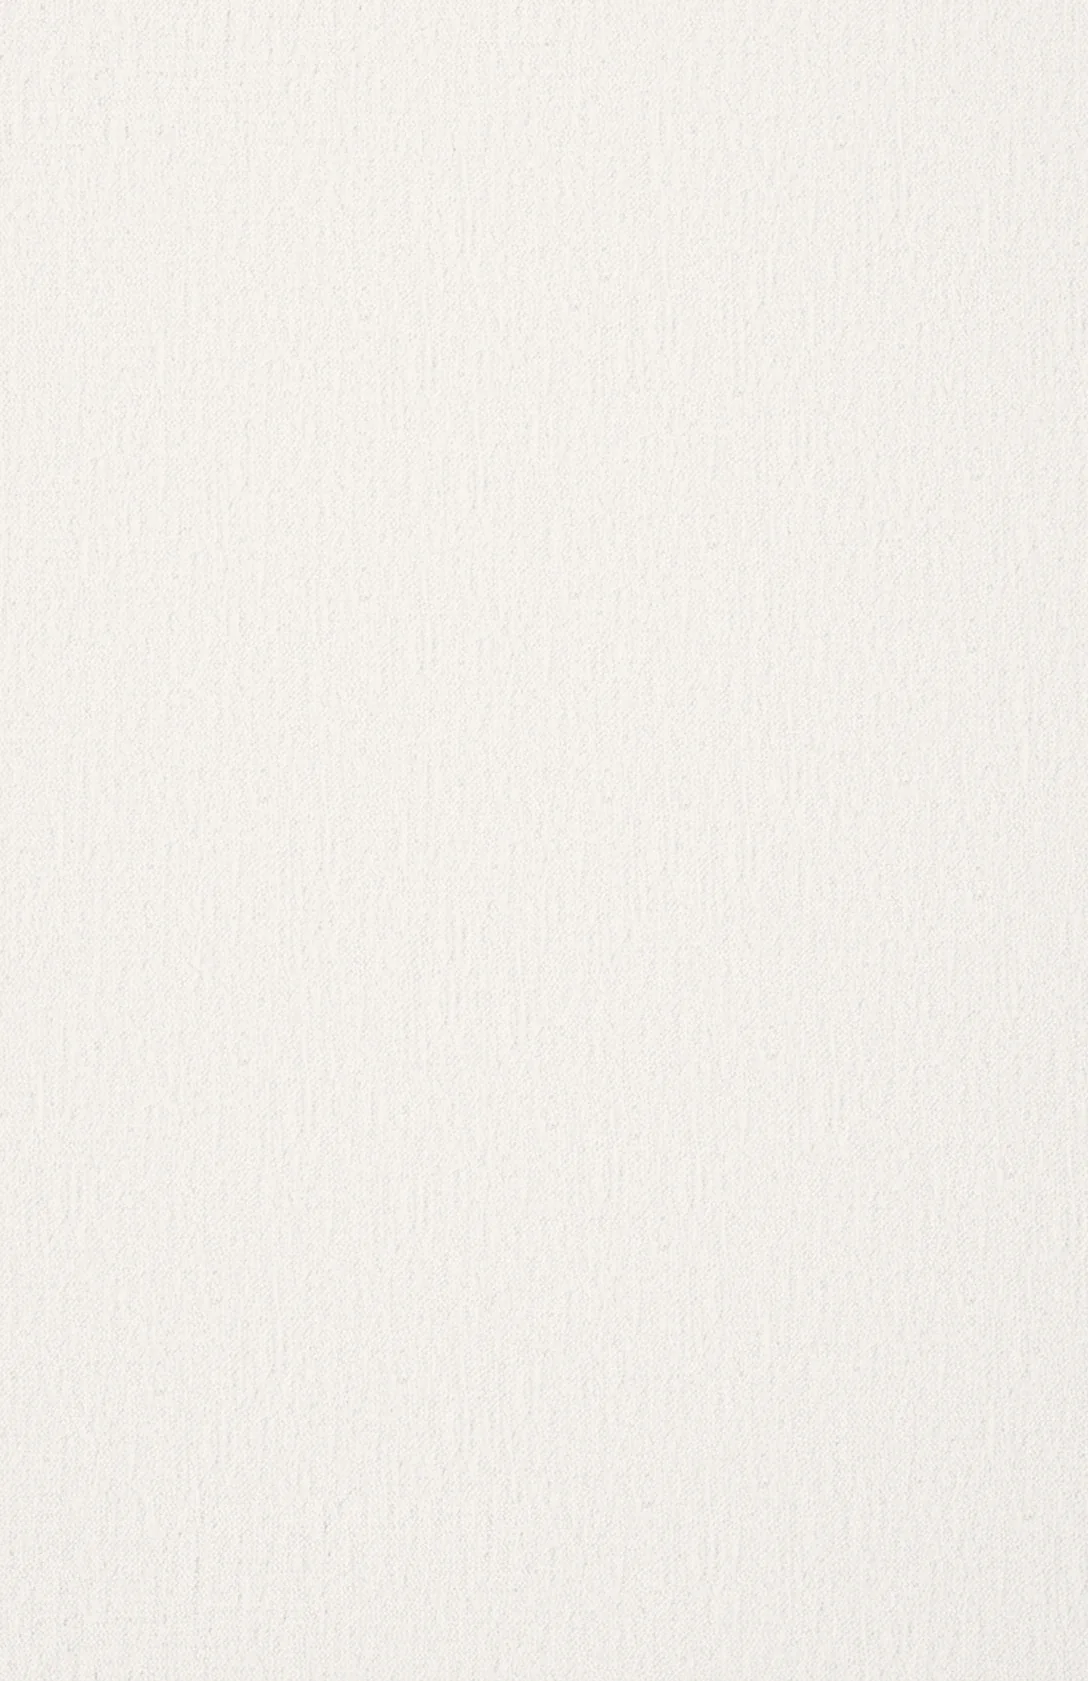
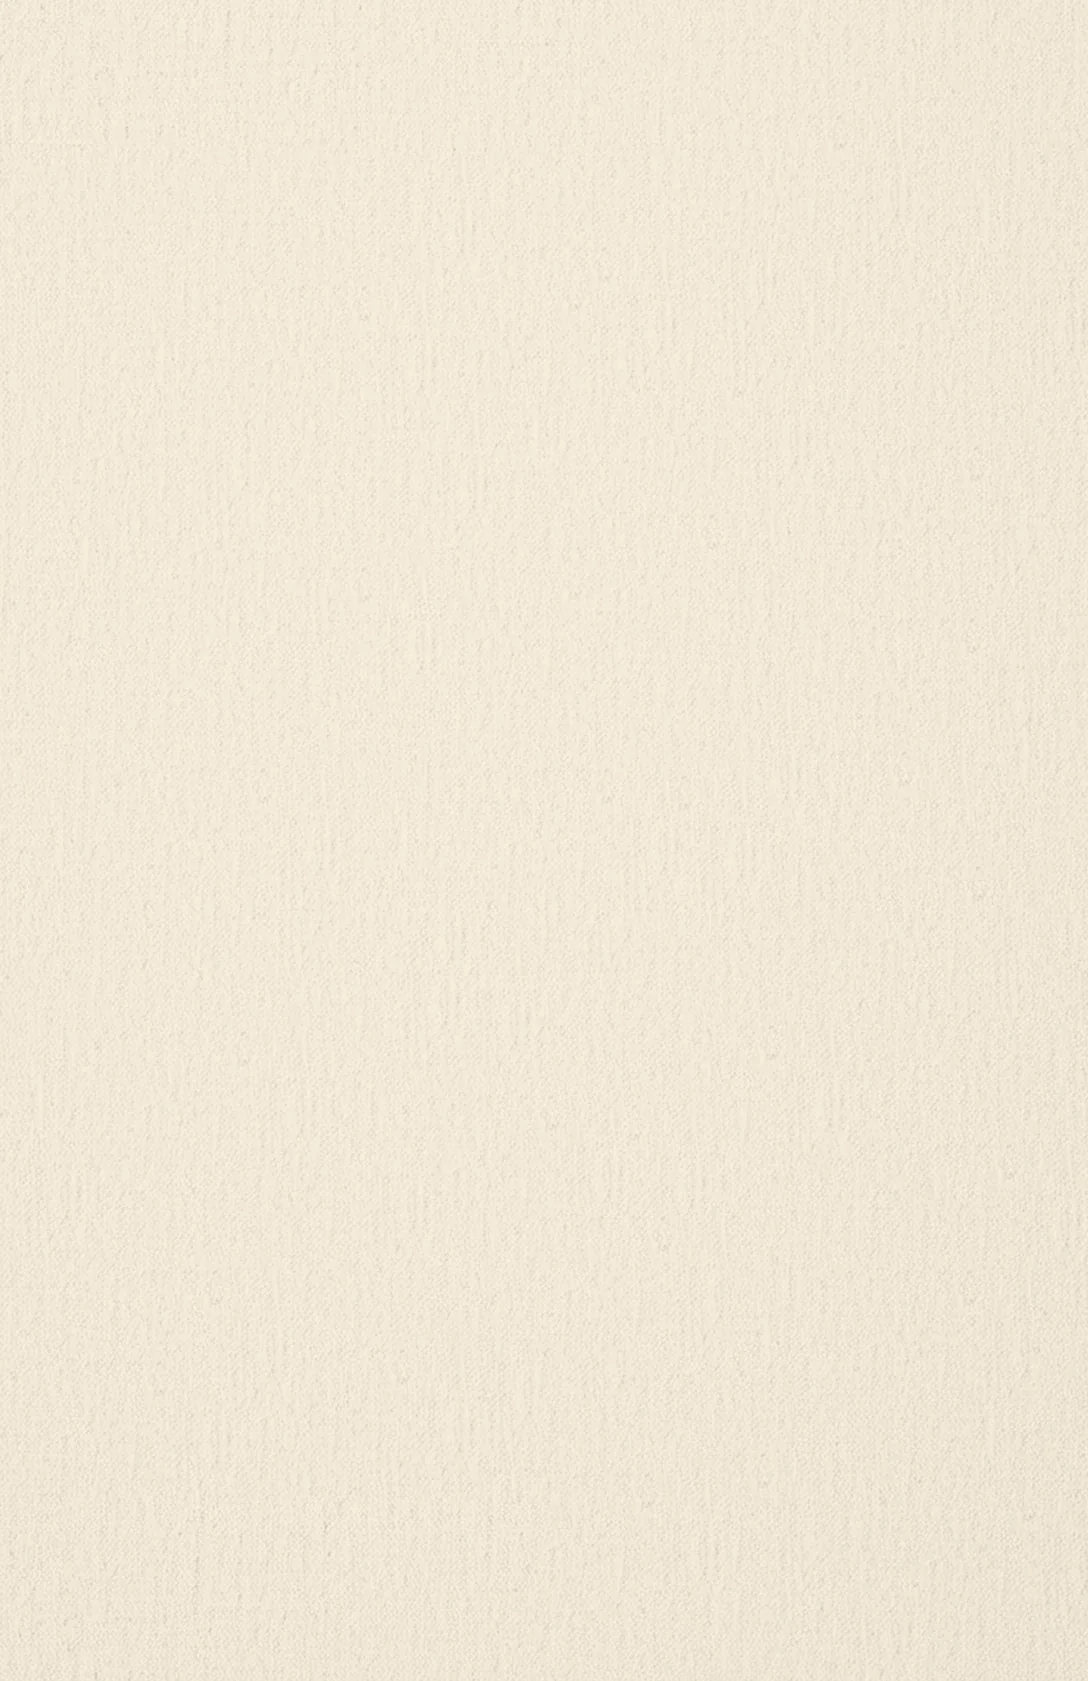
ucZLlRU بطلب المالك: إبراهيم وعبير — السبت 5/12/2026 من 7 لـ 11 مساءً، Tia Vie (Askar Group) أكتوبر بالخريطة على المكان وزرار الاتجاهات على لينكه، الدريس كود اتشال وكلام الكارت نزل في نص الورقة، أغنية "ألف الصلاة وألف السلام" لحسين الجسمي من المكتبة، الألبوم بصورهم التلاتة، الخلفية مايلة للدهبي سنة،
Claude-Session: https://claude.ai/code/session_018uZ4NkpTKXWRE8ncg3V81k

diff --git a/custom-invitations/ucZLlRU.js b/custom-invitations/ucZLlRU.js
@@ -2,7 +2,8 @@
 // نفس القالب ونفس البيانات (العميل يقدر يكمّل تعديل كلامه وصوره من المحرر عادي) — اللي اتغيّر الألوان والصور بس:
 // - صور القالب اتلوّنت بكسل بكسل (scratch uc/recolor.py): الظرف ورق برجندي بنفس النقشة البارزة وورق الشجر دهبي،
 //   الختم دهب، الكروت برجندي بنفس النقشة البارزة، ظرف الآية دانتيل برجندي، القلوب دهب، الورد زي ما هو.
-//   بطلب المالك: الورقة اللي ورا كل الأجزاء (الخلفية) ورقة بيضا، وورقة الآية اللي طالعة من الظرف بيضا.
+//   بطلب المالك: الورقة اللي ورا كل الأجزاء (الخلفية) فاتحة مايلة للدهبي سنة (شامبين)، وورقة الآية اللي طالعة
+//   من الظرف بيضا.
 //   الصور الجديدة في client/public/custom/ucZLlRU/ بنفس أسامي صور القالب، والـ transform بيبدّل المسار بس.
 //   أي صورة العميل يرفعها من المحرر بتكسب (بتتحط فوق من بيانات الدعوة).
 // - الكلام اللي على الورقة البيضا برجندي، واللي على الكروت البرجندي عاجي ودهبي (CSS تحت).
@@ -20,16 +21,30 @@ const FILES = [
   'scratch-coat-day.webp', 'scratch-coat-month.webp', 'scratch-coat-year.webp',
   'lace-envelope-back.webp', 'lace-envelope-front.webp',
   'heart-large.webp', 'heart-small.webp', 'closing-heart.png',
+  // (2026-11-21) الوردتين اللي فوق على الشمال اتقصّوا من جديد (القص القديم كان سايب حتت من خلفية الصورة الرمادي بين
+  // الورق وتحت الوردة) — scratch uc/recut_roses.py + roses_clean2.py
+  'hero-roses.webp',
 ];
 
 const CSS = `
 :root{--uc-wine:#5b1526;--uc-rose:#8f4d5c;--uc-card:#6c1a2c;--uc-ink:#f6ead1;--uc-soft:#dcc395;--uc-gold:#dcbb80;
-  --uc-gold-l:#ecd3a0;--uc-gold-d:#a47c40}
+  --uc-gold-l:#ecd3a0;--uc-gold-d:#a47c40;--uc-paper:#f4ecdb;--uc-paper-rgb:244,236,219}
+/* الورقة اللي ورا كل الأجزاء: مش أبيض صريح — شامبين فاتح مايل للدهبي سنة (طلب المالك)، نفس لون الكتان في الصور */
+html,body{background:var(--uc-paper)!important}
+#rec2442650993 .t396__artboard,#rec2442651013 .t396__artboard,#rec2442651163 .t396__artboard{background-color:var(--uc-paper)!important}
+#rec2442651013{background-color:var(--uc-paper)!important}
+#cl-sections,#venue,#album,#rsvp-wrap,.cl-note-wrap{background:var(--uc-paper)!important}
+html body .hv{background:var(--uc-paper)}
+.hv .hv-wash{background:linear-gradient(to bottom,rgba(var(--uc-paper-rgb),0) 0%,rgba(var(--uc-paper-rgb),.26) 42%,rgba(var(--uc-paper-rgb),.74) 76%,var(--uc-paper) 100%)!important}
+.cd-linen::after{background:linear-gradient(to bottom,var(--uc-paper) 0,rgba(var(--uc-paper-rgb),.72) 46px,rgba(var(--uc-paper-rgb),.22) 104px,rgba(var(--uc-paper-rgb),0) 150px,rgba(var(--uc-paper-rgb),0) 548px,rgba(var(--uc-paper-rgb),.3) 600px,rgba(var(--uc-paper-rgb),.78) 646px,var(--uc-paper) 680px)!important}
 /* الغلاف: "Click to open" على الظرف البرجندي */
 #rec2442650973 .tn-elem[data-elem-id="1777183175514000001"] .tn-atom{color:var(--uc-gold-l)!important;text-shadow:0 1px 6px rgba(20,0,6,.7)}
 /* أول شاشة: الكلام اللي على الورقة البيضا برجندي، واللي على الكارت البرجندي عاجي ودهبي
    (html body: القالب بيعرّف المتغيّرات دي بعدنا في الصفحة) */
-html body .hv{--hv-ink:var(--uc-wine)}
+html body .hv{--hv-ink:var(--uc-wine);--hv-paper:var(--uc-paper)}
+/* (2026-11-21) الدريس كود اتشال من الكارت → الكلام نزل 22px عشان يبقى في نص الورقة بالظبط (نص الكلام 413.9 → 435.5 = نص
+   الكارت 190–681). fitHeroCard بتاعة القالب لو احتاجت ترفع الكارت بتكتب top inline وتكسب */
+#hv-hero .hv-card{top:272px}
 .hv .hv-card{color:var(--uc-ink)!important}
 .hv .hv-names>span{color:var(--uc-gold-l)}
 .hv .hv-names .hv-amp{color:var(--uc-gold)!important}
@@ -44,25 +59,25 @@ html body .hv{--hv-ink:var(--uc-wine)}
 #rec2442651013 .vl>.vbr{color:#b08a52!important}
 #rec2442651013 .tn-elem[data-elem-id="1705235414678"] .tn-atom{color:#8a6640!important}
 /* العدّاد: كل كلامه جوه الكارت البرجندي */
-html body .cd{--cd-ink:var(--uc-ink);--cd-soft:var(--uc-soft);--cd-gold:var(--uc-gold);--cd-rule:rgba(220,187,128,.42)}
+html body .cd{--cd-ink:var(--uc-ink);--cd-soft:var(--uc-soft);--cd-gold:var(--uc-gold);--cd-rule:rgba(220,187,128,.42);--cd-paper:var(--uc-paper)}
 .cd-title{color:var(--uc-gold-l)}
 #cd-countdown .cd-cal{border-color:rgba(220,187,128,.7)!important;background:rgba(255,240,210,.06)!important;color:var(--uc-ink)!important}
 #cd-countdown .cd-cal:hover,#cd-countdown .cd-cal:focus-visible{background:var(--uc-gold)!important;color:var(--uc-wine)!important;border-color:var(--uc-gold)!important}
 /* المكان: الكلام على الورقة البيضا برجندي، والإطار برجندي بخط دهب */
-html body .vn{--vn-ink:var(--uc-wine);--vn-soft:var(--uc-rose);--vn-gold:var(--uc-gold-d)}
+html body .vn{--vn-ink:var(--uc-wine);--vn-soft:var(--uc-rose);--vn-gold:var(--uc-gold-d);--vn-paper:var(--uc-paper)}
 .vn-frame{background:var(--uc-card)!important}
 .vn-frame::after{border-color:rgba(220,187,128,.6)!important}
 .vn-map{background:#5a1525!important}
 #vn-venue .vn-dir{border-color:rgba(91,21,38,.55)!important}
 #vn-venue .vn-dir:hover,#vn-venue .vn-dir:focus-visible{background:var(--uc-wine)!important;color:var(--uc-ink)!important}
 /* الألبوم */
-html body .al{--al-ink:var(--uc-wine);--al-soft:var(--uc-rose);--al-gold:var(--uc-gold-d)}
+html body .al{--al-ink:var(--uc-wine);--al-soft:var(--uc-rose);--al-gold:var(--uc-gold-d);--al-paper:var(--uc-paper);--cd-paper:var(--uc-paper)}
 .al-card{background:var(--uc-card)!important}
 .al-card::after{border-color:rgba(220,187,128,.55)!important}
 #al-album .al-btn{border-color:rgba(91,21,38,.45)!important}
 #al-album .al-btn:hover,#al-album .al-btn:focus-visible{background:var(--uc-wine)!important;color:var(--uc-ink)!important}
 /* تأكيد الحضور: العنوان على الورقة البيضا برجندي — الكارت برجندي وكلامه عاجي */
-html body .rs{--rs-ink:var(--uc-wine);--rs-soft:var(--uc-rose);--rs-gold:var(--uc-gold-d)}
+html body .rs{--rs-ink:var(--uc-wine);--rs-soft:var(--uc-rose);--rs-gold:var(--uc-gold-d);--rs-paper:var(--uc-paper)}
 html body .rs-card{--rs-ink:var(--uc-ink);--rs-soft:var(--uc-soft);--rs-gold:var(--uc-gold);--rs-line:rgba(220,187,128,.45);--rs-err:#f3a993;background:var(--uc-card)!important}
 .rs-card::before{border-color:rgba(220,187,128,.6)!important}
 .rs-card .rs-thanks__title{color:var(--uc-gold-l)}
@@ -83,8 +98,25 @@ html body .rs-card{--rs-ink:var(--uc-ink);--rs-soft:var(--uc-soft);--rs-gold:var
 #audio-icon{fill:#ecd3a0!important}
 `;
 
+// (2026-11-21) ألبوم "Our Memories" = صور إبراهيم وعبير التلاتة اللي المالك بعتها (زي ما هي، الكارت بيقص بـ object-fit):
+// وهم صغيرين، بعدين صورتهم سوا، بعدين منديل كتب الكتاب. صورة العميل اللي يرفعها من المحرر (cl62–cl64) بتكسب.
+const ALBUM = [
+  { id: 'cl62', src: asset(`${DIR}album-1.webp`), pos: '50% 45%', alt: 'Ebraheem & Abeer as children' },
+  { id: 'cl63', src: asset(`${DIR}album-2.webp`), pos: '54% 50%', alt: 'Ebraheem & Abeer' },
+  { id: 'cl64', src: asset(`${DIR}album-3.webp`), pos: '50% 52%', alt: 'Ebraheem & Abeer — katb el-ketab' },
+];
+
 module.exports = {
   shortId: SHORT,
+
+  // كارت لينك المشاركة: الظرف البرجندي بالختم الدهب من غير أي كلام على الصورة (المالك بيحب كده)؛
+  // العنوان والوصف من بيانات الدعوة
+  share: {
+    image: asset(`${DIR}share.jpg`),
+    width: 1200,
+    height: 630,
+    overrideImage: true,
+  },
 
   render() {
     return { head: `<style id="uc-burgundy">${CSS}</style>` };
@@ -98,6 +130,18 @@ module.exports = {
       "g.addColorStop(0, '#ffffff'); g.addColorStop(.5, '#fbf3e4'); g.addColorStop(1, '#f2e4c8');");
     // الكونفيتي بعد الخربشة: دهب وعاجي وبرجندي (كان فيه قطع سودا)
     out = out.replace("'#f5ede0', '#1a1916', '#d4c090'", "'#f5ede0', '#8a2238', '#d4c090'");
+    // العريس الأول في الأسامي (الكارت والختام) زي ما المالك بيكتبها: Ebraheem & Abeer
+    out = out.replace("var n1 = LANG === 'ar' ? groom : bride, n2 = LANG === 'ar' ? bride : groom;", 'var n1 = groom, n2 = bride;');
+    // الألبوم: 3 صور بدل 4 (الكارت الرابع والنقطة الرابعة اتشالوا، والعدّاد / 03)
+    const fig = /\s*<figure class="al-card" data-i="(\d)"><img data-elem-id="(cl6[2-5])" src="[^"]*" alt="[^"]*" style="object-position:[^"]*"/g;
+    if ((out.match(fig) || []).length === 4) {
+      out = out.replace(/\s*<figure class="al-card" data-i="3">[\s\S]*?<\/figure>/, '');
+      ALBUM.forEach((a, i) => {
+        out = out.replace(new RegExp(`(<figure class="al-card" data-i="${i}"><img data-elem-id="${a.id}" src=")[^"]*(" alt=")[^"]*(" style="object-position:)[^"]*"`),
+          `$1${a.src}$2${a.alt}$3${a.pos}"`);
+      });
+      out = out.replace('<span>/ 04</span>', '<span>/ 03</span>').replace('<i data-i="3"></i></div>', '</div>');
+    }
     return out;
   },
 };

diff --git a/utils/oneOffFixes.js b/utils/oneOffFixes.js
@@ -11,6 +11,25 @@
 // فشل أي تعديل مايأثرش على تشغيل السيرفر.
 const Invitation = require('../models/Invitation');
 
+/**
+ * "ألف الصلاة وألف السلام" لحسين الجسمي من مكتبة الموسيقى (المالك رافعها من لوحة التحكم) — كأن العميل
+ * اختارها من تبويب الموسيقى في المحرر. لو مش لاقيها في المكتبة مابنغيّرش حاجة في الأغنية.
+ */
+async function alfSalatSong(tag) {
+  const Track = require('../models/Track');
+  const norm = (t) => String(t || '').replace(/[أإآ]/g, 'ا').replace(/ة/g, 'ه').replace(/ى/g, 'ي').toLowerCase();
+  const isSong = (t) => /الف\s*(ال)?صلا|صلاه\s*و\s*(ال)?سلام|alf\W*(a|e)?l?\W*sala/.test(norm(t.title));
+  const isJasmi = (t) => /جسمي|jas+mi/.test(norm(`${t.artist} ${t.title}`));
+  const tracks = await Track.find({ active: true }).sort({ createdAt: -1 }).select('title artist url').lean();
+  const pick = tracks.filter(isSong).sort((a, b) => Number(isJasmi(b)) - Number(isJasmi(a)))[0];
+  if (!pick || !/^https:\/\/res\.cloudinary\.com\//.test(pick.url)) {
+    console.log(`[oneOffFix] ${tag}: track not found in the library`);
+    return { 'customizations.audioUrl': '' };
+  }
+  console.log(`[oneOffFix] ${tag}: ${pick.title} — ${pick.artist} (${pick.url})`);
+  return { 'customizations.audioUrl': pick.url, 'customizations.audioStart': 0, 'customizations.audioEnd': 0 };
+}
+
 const FIXES = [
   {
     // FcVHj3j (Royal Maroon) — برنامج اليوم: ٣ نقط بس (الاستقبال، كتب الكتاب،
@@ -1081,20 +1100,7 @@ const FIXES = [
     name: 'j4jpczb-song-aljasmi',
     shortId: 'j4jpczb',
     when: (c) => !c.audioUrl,
-    async apply() {
-      const Track = require('../models/Track');
-      const norm = (t) => String(t || '').replace(/[أإآ]/g, 'ا').replace(/ة/g, 'ه').replace(/ى/g, 'ي').toLowerCase();
-      const isSong = (t) => /الف\s*(ال)?صلا|صلاه\s*و\s*(ال)?سلام|alf\W*(a|e)?l?\W*sala/.test(norm(t.title));
-      const isJasmi = (t) => /جسمي|jas+mi/.test(norm(`${t.artist} ${t.title}`));
-      const tracks = await Track.find({ active: true }).sort({ createdAt: -1 }).select('title artist url').lean();
-      const pick = tracks.filter(isSong).sort((a, b) => Number(isJasmi(b)) - Number(isJasmi(a)))[0];
-      if (!pick || !/^https:\/\/res\.cloudinary\.com\//.test(pick.url)) {
-        console.log('[oneOffFix] j4jpczb-song-aljasmi: track not found in the library');
-        return { 'customizations.audioUrl': '' };
-      }
-      console.log(`[oneOffFix] j4jpczb-song-aljasmi: ${pick.title} — ${pick.artist} (${pick.url})`);
-      return { 'customizations.audioUrl': pick.url, 'customizations.audioStart': 0, 'customizations.audioEnd': 0 };
-    },
+    apply: () => alfSalatSong('j4jpczb-song-aljasmi'),
   },
   {
     // j4jpczb — العريس بيتكتب Sary مش Sari (بطلب المالك 2026-11-07). الصفحة نفسها في
@@ -2124,6 +2130,45 @@ const FIXES = [
         hiddenSections: [...new Set([...(inv.hiddenSections || []).filter((x) => x !== 'dressCode'), 'stay', 'gift', 'transport', 'map'])],
       };
     },
+  },
+  {
+    // ucZLlRU (Champagne Lace EN برجندي — custom-invitations/ucZLlRU.js) — بطلب المالك (2026-11-21): إبراهيم وعبير،
+    // السبت 5/12/2026 من 7 لـ 11 مساءً، Tia Vie (Askar Group) أكتوبر. الخريطة على المكان نفسه (كود المكان 23W4+5C بيطلّع
+    // "Tia vie askargroup october" في جوجل)، وزرار الاتجاهات على لينك المالك. سطرين الميعاد (cl9/cl10) بالمدة واليوم،
+    // والدريس كود (cl13/cl14) اتشال من الكارت بنفس "الحذف" بتاع المحرر (صاحبها يقدر يرجّعه).
+    // بيتعمل بس لو الدعوة لسه بأسامي المسودة.
+    name: 'ucZLlRU-ebraheem-abeer',
+    shortId: 'ucZLlRU',
+    select: '-__v',
+    when: (c, inv) => inv.templateId === 'champagne-lace' && inv.groomName === 'Groom' && inv.brideName === 'Bride',
+    async apply(c, inv) {
+      const { buildInvitationDataFromRequest } = require('./invitationData');
+      const link = 'https://maps.app.goo.gl/BnQcZATe8cFEqafx5';
+      const data = await buildInvitationDataFromRequest({
+        templateId: inv.templateId, language: 'en', occasionType: inv.occasionType || 'wedding',
+        hiddenSections: inv.hiddenSections, timeline: inv.timeline, name: inv.name,
+        groomName: 'Ebraheem', groomNameAr: 'إبراهيم', brideName: 'Abeer', brideNameAr: 'عبير',
+        venueName: 'Tia Vie', venueCity: '6th of October', venueAddress: 'Askar Group, 6th of October',
+        venueMapQuery: link,
+        weddingDate: '2026-12-05', weddingTime: '19:00',
+      }, { ownsTemplate: true, skipMapNetwork: true });
+      const set = {};
+      Object.keys(data).forEach((k) => { set[k] = data[k]; });
+      set.venueMapQuery = link;
+      set.venueMapDirectLink = link;
+      set.venueMapEmbedSrc = 'https://www.google.com/maps?q=' + encodeURIComponent('23W4+5C Tia Vie, Kerdasa, Giza') + '&z=16&output=embed';
+      set['customizations.texts'] = { ...(c.texts || {}), cl9: 'on Saturday, from seven', cl10: 'until eleven in the evening' };
+      set['customizations.hidden'] = [...new Set([...(c.hidden || []), 'cl13', 'cl14'])];
+      return set;
+    },
+  },
+  {
+    // ucZLlRU — بطلب المالك (2026-11-21): "ألف الصلاة وألف السلام" لحسين الجسمي من مكتبة الموسيقى.
+    // بيتعمل بس لو مفيش أغنية متختارة، فلو اتغيّرت بعد كده مابنرجّعهاش.
+    name: 'ucZLlRU-song-aljasmi',
+    shortId: 'ucZLlRU',
+    when: (c) => !c.audioUrl,
+    apply: () => alfSalatSong('ucZLlRU-song-aljasmi'),
   },
 ];
 
